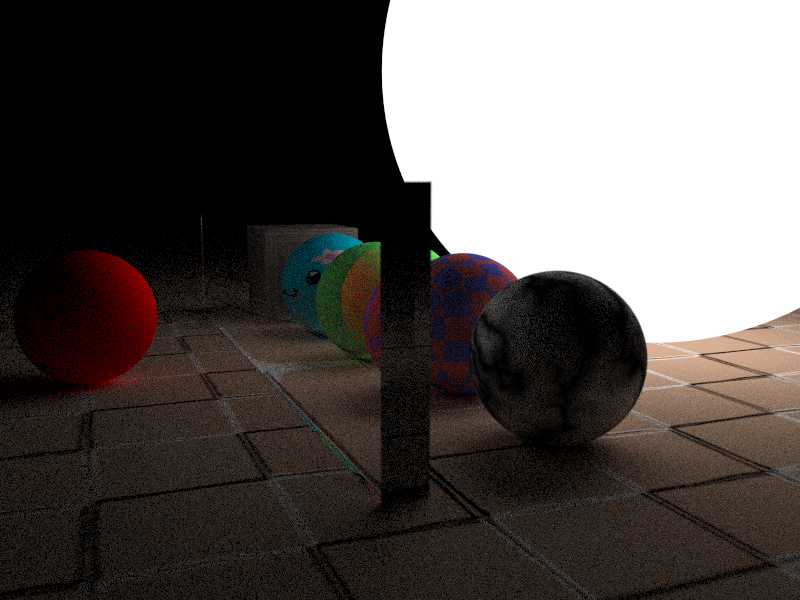
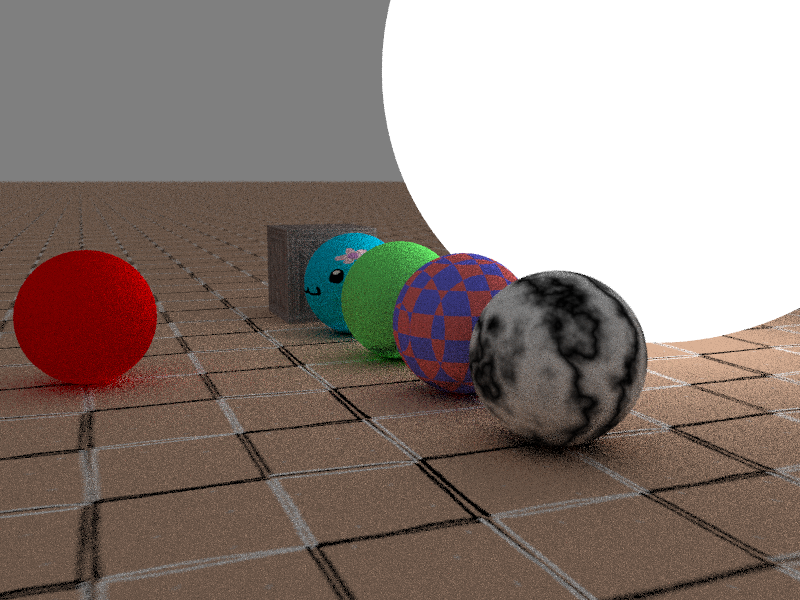
Restructured Cuboid so that it acts as a Box<Hitable> rather than Vec<Box<Hitable>>.

diff --git a/src/shapes/cuboid.rs b/src/shapes/cuboid.rs
@@ -6,19 +6,19 @@ use crate::materials::{dielectric, diffuse_light, lambertian, metal, Material};
 use crate::textures::TextureType;
 use crate::util::{
     hitable::{HitRecord, Hitable},
+    hitable_list::HitableList,
     math,
     ray::Ray,
     vector3::Vec3,
 };
 
-pub struct Cuboid {}
+pub struct Cuboid {
+    object: HitableList,
+}
 
-// I think I can restructure this so that `Cuboid` would return itself as a `Box<Hitable>`
-// instead of a `Vec<Box<Hitable>>`. And then when `impl`ementing `Hitable` for `Cuboid,
-// I can iterate through the `Vec` (stored in the Cuboid struct) to check whether the incoming
-// ray hits each component.
+// Derp. I forgot there's a `hitable_list` which implements exactly what I wanted already.
 impl Cuboid {
-    pub fn new(origin: Vec3, size: Vec3, material: Rc<Material>) -> Vec<Box<Hitable>> {
+    pub fn new(origin: Vec3, size: Vec3, material: Rc<Material>) -> Box<Hitable> {
         let mut components: Vec<Box<Hitable>> = Vec::new();
 
         let min = origin;
@@ -38,7 +38,6 @@ impl Cuboid {
             false,
             material.clone(),
         ));
-
         components.push(RectXZ::new(
             Vec3::new(min.x, 0.0, min.z),
             Vec3::new(max.x, 0.0, max.z),
@@ -67,7 +66,15 @@ impl Cuboid {
             false,
             material.clone(),
         ));
-        components
+        Box::new(Cuboid {
+            object: HitableList::new(components),
+        })
+    }
+}
+
+impl Hitable for Cuboid {
+    fn hit(&self, r: &Ray, t_min: f64, t_max: f64, rec: &mut HitRecord) -> bool {
+        self.object.hit(r, t_min, t_max, rec)
     }
 }
 
@@ -167,7 +174,7 @@ impl Hitable for RectXZ {
         }
         rec.u = (x - self.min.x) / (self.max.x - self.min.x)
             * if self.normal_flip { -1.0 } else { 1.0 };
-        rec.v = (z - self.min.y) / (self.max.z - self.min.z);
+        rec.v = (z - self.min.z) / (self.max.z - self.min.z);
         rec.t = t;
         rec.material = self.material.clone();
         rec.p = r.point_at_parameter(t);

diff --git a/src/util/world.rs b/src/util/world.rs
@@ -339,12 +339,21 @@ pub fn load_from_json(filename: String) -> HitableList {
     println!("Done loading.");
 
     // Test cuboid
-    list.append(&mut Cuboid::new(
+    /*list.append(&mut Cuboid::new(
         Vec3::new(-6.0, 0.0, -1.0),
         Vec3::new(2.0, 2.0, 2.0),
         //Lambertian::new(ConstantTexture::new(Vec3::new(1.0, 0.0, 0.0))),
         //Dielectric::new(1.8),
         //Lambertian::new(NoiseTexture::new(10.0)),
+        Lambertian::new(ImageTexture::new(
+            image::open("res/images/crate2_diffuse.png").unwrap(),
+            1.0,
+        )),
+    ));*/
+
+    list.push(Cuboid::new(
+        Vec3::new(-6.0, 0.0, -1.0),
+        Vec3::new(2.0, 2.0, 2.0),
         Lambertian::new(ImageTexture::new(
             image::open("res/images/crate2_diffuse.png").unwrap(),
             1.0,
@@ -358,12 +367,6 @@ pub fn load_from_json(filename: String) -> HitableList {
             Lambertian::new(ConstantTexture::new(Vec3::new(1.0, 0.0, 0.0))),
         ),
         Vec3::new(0.0, 1.0, 5.0),
-    ));
-
-    list.append(&mut Cuboid::new(
-        Vec3::new(-6.0, 0.0, 2.0),
-        Vec3::new(12.0, 3.0, 0.5),
-        Dielectric::new(2.7),
     ));
 
     let list = HitableList::new(list);

diff --git a/README.md b/README.md
@@ -19,7 +19,6 @@ Rendering the default scene with the `good.json` config (800×600 at 100 samples
 
 # To Do
 
-- Restructure cuboid to be a single `Box<Hitable>` rather than a `Vec<Box<Hitable>>`. See `shapes\cuboid.rs` for more details.
 - Implement cuboid loading into scene via JSON.
 
 # License
